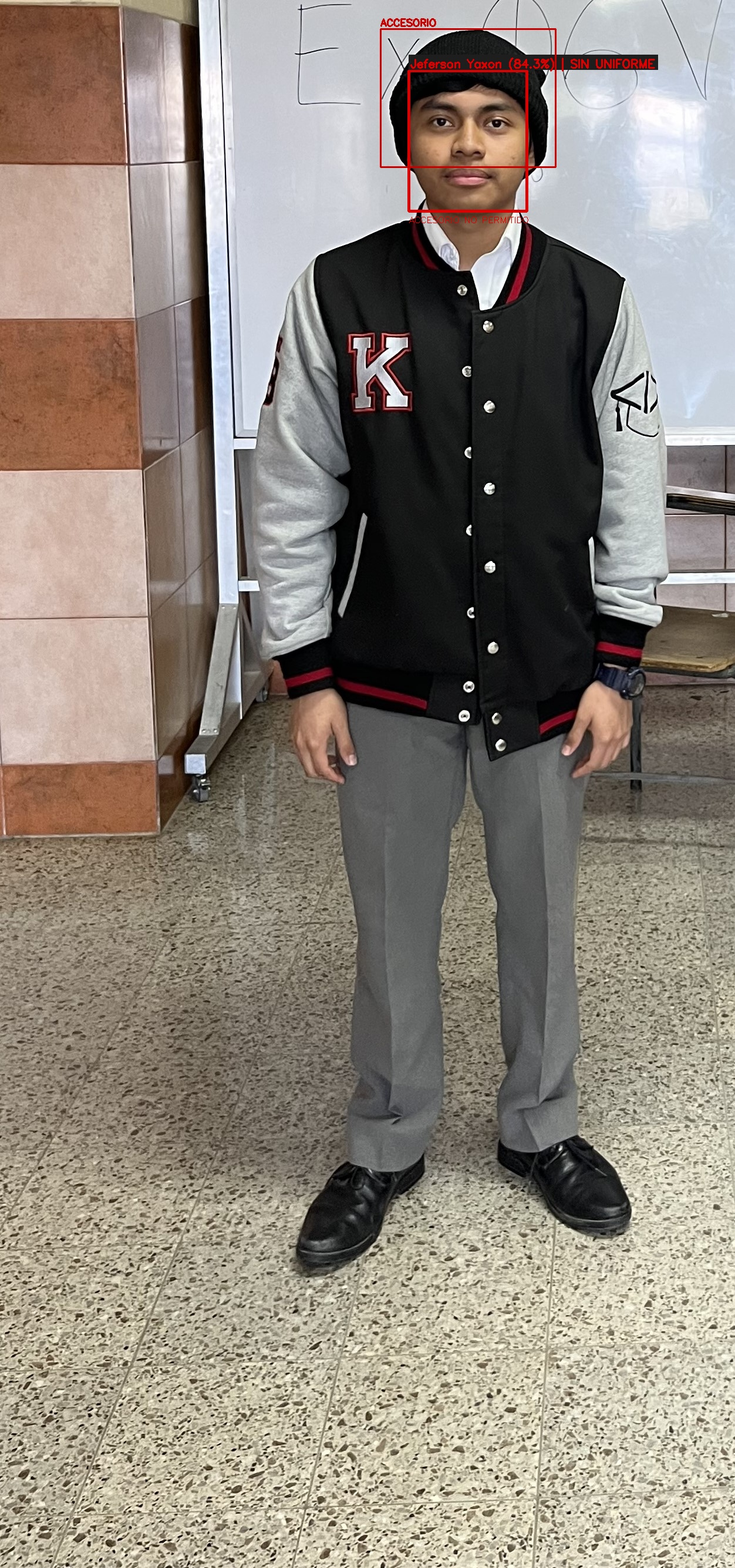
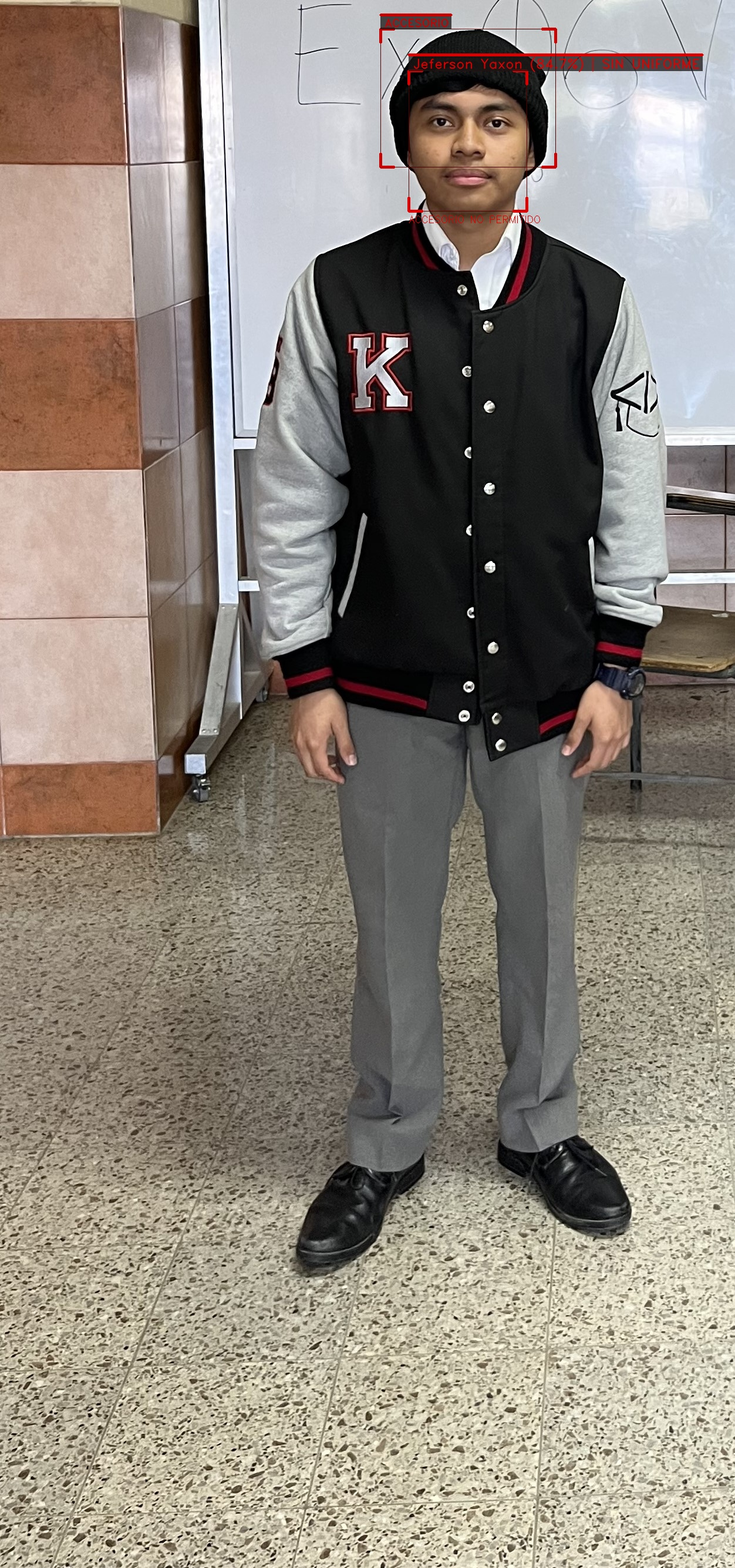
fix: Solucionar bugs al usar gpu

Changed region(s): [[0.4984, 0.0, 0.9657, 0.1555]]

diff --git a/clients/totem/totem_video.py b/clients/totem/totem_video.py
@@ -6,6 +6,10 @@ import numpy as np
 import os
 import sys
 
+# Agregar ruta para que ui_utils.py pueda ser importado
+sys.path.append(os.path.dirname(os.path.abspath(__file__)))
+from ui_utils import draw_futuristic_box
+
 URL_SERVIDOR   = "http://localhost:8000"
 NOMBRE_VENTANA = "AI Sentinel - En vivo"
 
@@ -482,7 +486,7 @@ def conectar_sio_background():
 def leer_camara_continuamente():
     """Lee frames del video y los almacena pre-resizeados a DISPLAY_W x DISPLAY_H."""
     global frame_actual
-    ruta_video  = "./assets/6.MOV"
+    ruta_video  = "./assets/3.MOV"
     cap         = cv2.VideoCapture(ruta_video)
     fps_video   = cap.get(cv2.CAP_PROP_FPS) or 30
     intervalo   = 1.0 / fps_video
@@ -593,7 +597,7 @@ def open_cam():
     global SEND_W_SLOW, SEND_H_SLOW, SCALE_X_SLOW, SCALE_Y_SLOW
     global _fps_contador, _fps_ts, _fps_actual
 
-    ruta_video = "./assets/6.MOV"
+    ruta_video = "./assets/3.MOV"
 
     if not os.path.exists(ruta_video):
         print(f"\n[ERROR CRÍTICO] El archivo de video '{ruta_video}' no fue encontrado.")
@@ -720,16 +724,13 @@ def open_cam():
             else:
                 color_rec = (0, 165, 255)      # naranja
 
-            # Recuadro de cara
-            cv2.rectangle(frame, (x1, y1), (x2, y2), color_rec, 2)
-
+            # Recuadro de cara futurista
             sufijo = ("" if tiene_uniforme is None
                       else (" | UNIFORME: SI" if tiene_uniforme else " | UNIFORME: NO"))
-            cv2.putText(frame, f"{nombre}{sufijo}",
-                        (x1, max(y1 - 10, 15)),
-                        cv2.FONT_HERSHEY_SIMPLEX, 0.6, color_rec, 2)
+            etiqueta = f"{nombre}{sufijo}"
+            draw_futuristic_box(frame, x1, y1, x2, y2, color_rec, text=etiqueta, text_size=0.6)
 
-            # Cajas de ropa (con delta aplicado)
+            # Cajas de ropa futuristas
             for cb in clothing_items:
                 bx1, by1, bx2, by2 = cb["box"]
                 if cb["class"].upper() == "ACCESORIO":
@@ -738,10 +739,9 @@ def open_cam():
                     c_color = (0, 200, 0)   # prenda válida → verde
                 else:
                     c_color = (0, 100, 255) # prenda inválida → naranja
-                cv2.rectangle(frame, (bx1, by1), (bx2, by2), c_color, 2)
-                cv2.putText(frame, cb["class"].upper(),
-                            (bx1, max(by1 - 5, 10)),
-                            cv2.FONT_HERSHEY_SIMPLEX, 0.5, c_color, 2)
+                
+                # Borde más delgado y elegante para cajas de ropa interna
+                draw_futuristic_box(frame, bx1, by1, bx2, by2, c_color, text=cb["class"].upper(), text_size=0.5)
 
         cv2.imshow(NOMBRE_VENTANA, frame)
         if cv2.waitKey(_ms_por_frame) & 0xFF == ord("q"):

diff --git a/clients/totem/totem_testimages.py b/clients/totem/totem_testimages.py
@@ -19,6 +19,10 @@ import cv2
 import requests
 import numpy as np
 
+# Agregar ruta para que ui_utils.py pueda ser importado
+sys.path.append(os.path.dirname(os.path.abspath(__file__)))
+from ui_utils import draw_futuristic_box
+
 URL_SERVIDOR = "http://localhost:8000"
 VALID_EXT    = {'.jpg', '.jpeg', '.png', '.webp', '.bmp'}
 
@@ -74,38 +78,24 @@ def _dibujar_resultados(frame: np.ndarray, students: list) -> np.ndarray:
         else:
             color = COLOR_NOK
 
-        # Recuadro de cara
-        cv2.rectangle(annotated, (left, top), (right, bottom), color, 3)
-
-        # Etiqueta identidad + uniforme
-        unif_str = "UNIFORME ✓" if has_unif else "SIN UNIFORME"
+        # Recuadro futurista de cara
+        unif_str = "UNIFORME OK" if has_unif else "SIN UNIFORME"
         conf_str = f" ({confidence})" if confidence else ""
         label    = f"{identity}{conf_str} | {unif_str}"
-
-        # Fondo semitransparente para la etiqueta
-        (tw, th), _ = cv2.getTextSize(label, cv2.FONT_HERSHEY_SIMPLEX, 0.65, 2)
-        cv2.rectangle(annotated,
-                      (left, max(top - th - 12, 0)),
-                      (left + tw + 6, max(top - 2, th + 2)),
-                      (30, 30, 30), cv2.FILLED)
-        cv2.putText(annotated, label,
-                    (left + 3, max(top - 5, th + 1)),
-                    cv2.FONT_HERSHEY_SIMPLEX, 0.65, color, 2)
+        
+        draw_futuristic_box(annotated, left, top, right, bottom, color, text=label, text_size=0.6)
 
         # Detalles de ropa (clothing_details) debajo del recuadro
         if clothing_d:
             cv2.putText(annotated, clothing_d,
                         (left, min(bottom + 20, annotated.shape[0] - 5)),
-                        cv2.FONT_HERSHEY_SIMPLEX, 0.5, color, 1)
+                        cv2.FONT_HERSHEY_SIMPLEX, 0.55, color, 1)
 
         # Bounding boxes de prendas individuales
         for cb in student.get("clothing_boxes", []):
             bx1, by1, bx2, by2 = cb["box"]
             c_color = COLOR_ROPA_OK if cb.get("valid") else COLOR_ROPA_NOK
-            cv2.rectangle(annotated, (bx1, by1), (bx2, by2), c_color, 2)
-            cv2.putText(annotated, cb["class"].upper(),
-                        (bx1, max(by1 - 5, 10)),
-                        cv2.FONT_HERSHEY_SIMPLEX, 0.55, c_color, 2)
+            draw_futuristic_box(annotated, bx1, by1, bx2, by2, c_color, text=cb["class"].upper(), text_size=0.5)
 
         # Aviso de cuerpo incompleto
         if needs_body:

diff --git a/clients/totem/ui_utils.py b/clients/totem/ui_utils.py
@@ -1,0 +1,56 @@
+import cv2
+import numpy as np
+
+def draw_futuristic_box(img, x1, y1, x2, y2, color, text=None, text_size=0.55):
+    """
+    Dibuja un bounding box futurista estilo HUD (esquinas resaltadas)
+    y un banner de texto semitransparente moderno con tipografía ajustada.
+    """
+    # Escala dinámica basada en resolución (referencia 1080p -> altura 1080 -> scale ~1.0)
+    h_img, w_img = img.shape[:2]
+    scale = max(1.0, min(h_img, w_img) / 800.0)
+    
+    thickness = max(1, int(2 * scale))
+    corner_length = max(15, int(15 * scale))
+    text_size = max(0.4, text_size * scale * 0.8)
+    font_thickness = max(1, int(1 * scale))
+
+    # 1. Caja tenue semitransparente o punteada (aquí hacemos un rectángulo base delgado y oscuro)
+    cv2.rectangle(img, (x1, y1), (x2, y2), (int(color[0]*0.4), int(color[1]*0.4), int(color[2]*0.4)), 1)
+    
+    # 2. Esquinas (HUD style)
+    # Top-Left
+    cv2.line(img, (x1, y1), (x1 + corner_length, y1), color, thickness)
+    cv2.line(img, (x1, y1), (x1, y1 + corner_length), color, thickness)
+    # Top-Right
+    cv2.line(img, (x2, y1), (x2 - corner_length, y1), color, thickness)
+    cv2.line(img, (x2, y1), (x2, y1 + corner_length), color, thickness)
+    # Bottom-Left
+    cv2.line(img, (x1, y2), (x1 + corner_length, y2), color, thickness)
+    cv2.line(img, (x1, y2), (x1, y2 - corner_length), color, thickness)
+    # Bottom-Right
+    cv2.line(img, (x2, y2), (x2 - corner_length, y2), color, thickness)
+    cv2.line(img, (x2, y2), (x2, y2 - corner_length), color, thickness)
+
+    # 3. Text Banner elegante y semitransparente
+    if text:
+        font = cv2.FONT_HERSHEY_DUPLEX
+        (tw, th), baseline = cv2.getTextSize(text, font, text_size, 1)
+        
+        # Coordenadas del banner
+        bx1 = x1
+        by1 = max(0, y1 - th - 10)
+        bx2 = x1 + tw + 10
+        by2 = max(0, y1)
+
+        # Usar overlay para transparencia alfa
+        overlay = img.copy()
+        cv2.rectangle(overlay, (bx1, by1), (bx2, by2), (20, 20, 25), cv2.FILLED)
+        alpha = 0.75
+        cv2.addWeighted(overlay, alpha, img, 1 - alpha, 0, img)
+
+        # LÍNEA DE ACENTO SUPERIOR para el banner
+        cv2.line(img, (bx1, by1), (bx2, by1), color, thickness)
+
+        # Texto nítido
+        cv2.putText(img, text, (bx1 + int(5*scale), by1 + th + int(4*scale)), font, text_size, color, font_thickness, cv2.LINE_AA)
